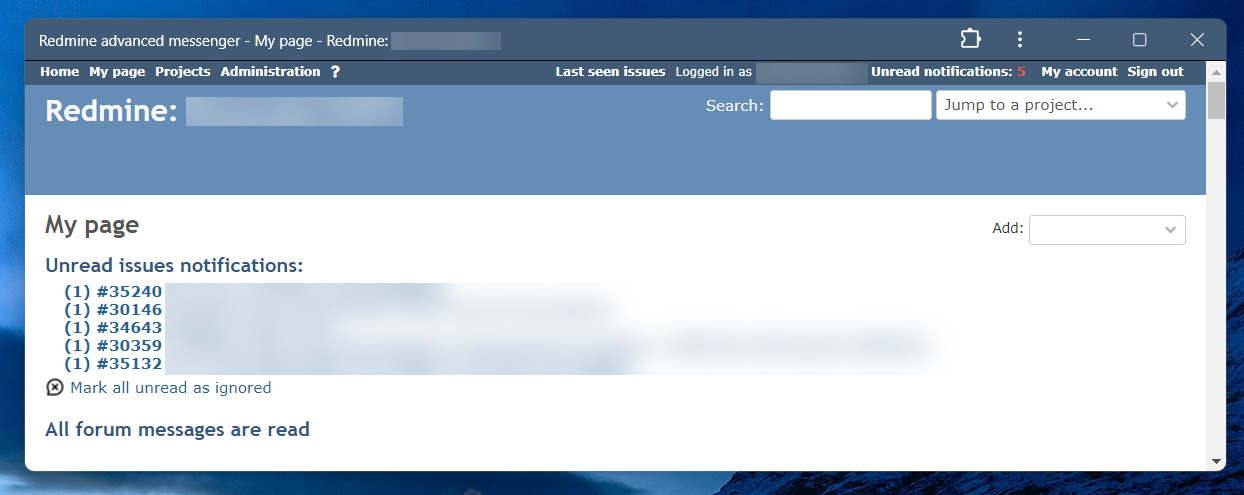
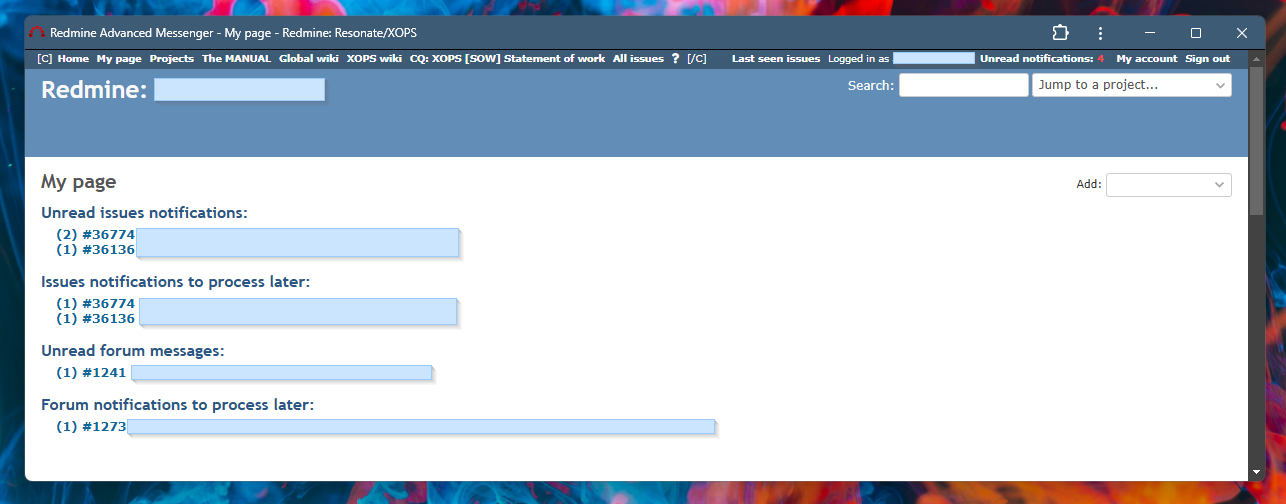
#36136-refreshing-pwa-for-notifications-with-read-briefly-and-update-… (#49)
* #36136-refreshing-pwa-for-notifications-with-read-briefly-and-update-featurebook

* #36136-add-in-changelog

* #36136-small-fix

* #36136-small-modif

---------

diff --git a/assets/javascripts/redmine_advanced_messenger.js b/assets/javascripts/redmine_advanced_messenger.js
@@ -1,6 +1,7 @@
 const PWA_START_URL = "/my/page";
 const PWA_BADGE_VALUE = "PWA_BADGE_VALUE";
 const PWA_DISPLAYED_NOTIFICATIONS = "PWA_DISPLAYED_NOTIFICATIONS";
+const PWA_READ_BRIEFLY_NOTIFICATIONS_COUNT = "PWA_READ_BRIEFLY_NOTIFICATIONS_COUNT";
 const PWA_RELATIVE_PATH = "/plugin_assets/redmine_advanced_messenger/pwa/service-worker.js";
 
 // register service worker
@@ -102,7 +103,7 @@ function checkPWA() {
     return window.matchMedia('(display-mode: standalone)').matches
 }
 
-function refreshPWA(badgeValue, notifications, notificationActions) {
+function refreshPWA(badgeValue, unreadNotifications, notificationActions, readBrieflyNotificationCount) {
     if (!checkPWA()) {
         return;
     }
@@ -124,28 +125,34 @@ function refreshPWA(badgeValue, notifications, notificationActions) {
         sessionStorage.setItem(PWA_BADGE_VALUE, badgeValue);
     }
 
-    // On the first run, skip sending notifications and add all in session storage to be considered as sent
+    // On the first run, skip sending unread notifications and add all in session storage to be considered as sent
     if (!sessionStorage.getItem(PWA_DISPLAYED_NOTIFICATIONS)) {
-        sessionStorage.setItem(PWA_DISPLAYED_NOTIFICATIONS, JSON.stringify(notifications));
+        sessionStorage.setItem(PWA_DISPLAYED_NOTIFICATIONS, JSON.stringify(unreadNotifications));
     } else {
         let delay = 0;
         const displayedNotifications = JSON.parse(sessionStorage.getItem(PWA_DISPLAYED_NOTIFICATIONS) || '[]');
-        // Set current notifications received in session storage so they won't be resent at the next refresh
-        sessionStorage.setItem(PWA_DISPLAYED_NOTIFICATIONS, JSON.stringify(notifications));
-        notifications.forEach(function (notification) {
-            // choose notifications which are not included in session storage
+        // Set current unread notifications received in session storage so they won't be resent at the next refresh
+        sessionStorage.setItem(PWA_DISPLAYED_NOTIFICATIONS, JSON.stringify(unreadNotifications));
+        unreadNotifications.forEach(function (notification) {
+            // choose unread notifications which are not included in session storage
             if (!displayedNotifications.find(displayedNotification => displayedNotification.notificationId == notification.notificationId)) {
                 // Increase the delay by 1 second for each subsequent notification
-                // Without this delay, notifications would be sent one after another too quickly, causing only the last one to be received
-                // e.g., if the delay is 500ms, only the odd notifications would be shown
+                // Without this delay, unread notifications would be sent one after another too quickly, causing only the last one to be received
+                // e.g., if the delay is 500ms, only the odd unread notifications would be shown
                 setTimeout(() => showNotification(notification.title, notification.message, notification, notificationActions), delay);
                 delay += 1000;
             }
         });
 
+        const readBrieflyNotificationsCountStored = sessionStorage.getItem(PWA_READ_BRIEFLY_NOTIFICATIONS_COUNT);
+        let readBrieflyNotificationsCountChanged = false;
+        if (readBrieflyNotificationsCountStored != readBrieflyNotificationCount) {
+            sessionStorage.setItem(PWA_READ_BRIEFLY_NOTIFICATIONS_COUNT, readBrieflyNotificationCount);
+            readBrieflyNotificationsCountChanged = true;
+        }
         // if badgeChanged or if at least one notification was sent the page needs refresh
-        if (badgeChanged || delay > 0) {
-            // Delay the page refresh to happen after all notifications have been shown
+        if (badgeChanged || delay > 0 || readBrieflyNotificationsCountChanged) {
+            // Delay the page refresh to happen after all unread notifications have been shown
             // Without this delay, the page refresh would interrupt the notifications from being sent
             setTimeout(() => window.location.href = PWA_START_URL, delay);
         }

diff --git a/app/controllers/advanced_messenger_controller.rb b/app/controllers/advanced_messenger_controller.rb
@@ -81,7 +81,7 @@ class AdvancedMessengerController < ApplicationController
     end
     
     # read the details and compose notifications only if we are called from PWA (needs them to compose the notifications)
-    # for the rest, use getUnreadNotificationsForCurrentUserCount()
+    # for the rest, use getNotificationsForCurrentUserCountByStatus()
     all_notifications = []
     if params[:for_pwa] == "true"
       # This can be generalized in two methods which call next SQL-s, in order to make the code easy to maintains
@@ -127,7 +127,20 @@ class AdvancedMessengerController < ApplicationController
     end
 
     respond_to do |format|
-      format.json { render json: {count: getUnreadNotificationsForCurrentUserCount(), notifications: all_notifications}, status: 200 }
+      format.json { render json: {count: getNotificationsForCurrentUserCountByStatus(AdvancedMessengerHelper::UNREAD), notifications: all_notifications}, status: 200 }
+      format.html
+    end
+  end
+
+  def read_briefly_notifications_count
+    if !User.current.logged?
+      Rails.logger.error("No logged in user")
+      render_403
+      return
+    end
+
+    respond_to do |format|
+      format.json { render json: { count: getNotificationsForCurrentUserCountByStatus(AdvancedMessengerHelper::READ_BRIEFLY) }, status: 200 }
       format.html
     end
   end

diff --git a/app/helpers/advanced_messenger_helper.rb b/app/helpers/advanced_messenger_helper.rb
@@ -101,9 +101,9 @@ module AdvancedMessengerHelper
         return grouped_notifications
     end
 
-    def getUnreadNotificationsForCurrentUserCount()
-        unread_issues_notifications_count = Journal.where("notes != '' AND notes IS NOT NULL AND read_by_users ILIKE ?", '%"' + User.current.id.to_s + "\":{\"read\":#{AdvancedMessengerHelper::UNREAD}%").count
-        unread_forum_messages_count = Message.where("read_by_users ILIKE ?", '%"' + User.current.id.to_s + "\":{\"read\":#{AdvancedMessengerHelper::UNREAD}%").count
+    def getNotificationsForCurrentUserCountByStatus(status)
+        unread_issues_notifications_count = Journal.where("notes != '' AND notes IS NOT NULL AND read_by_users ILIKE ?", '%"' + User.current.id.to_s + "\":{\"read\":#{status}%").count
+        unread_forum_messages_count = Message.where("read_by_users ILIKE ?", '%"' + User.current.id.to_s + "\":{\"read\":#{status}%").count
         return unread_forum_messages_count + unread_issues_notifications_count;
     end
 

diff --git a/config/routes.rb b/config/routes.rb
@@ -4,6 +4,7 @@
 post 'advanced_messenger/:id/:read_by_users/update_journal_read_by_users', :to => 'advanced_messenger#update_journal_read_by_users'
 post 'advanced_messenger/:id/:read_by_users/update_message_read_by_users', :to => 'advanced_messenger#update_message_read_by_users'
 get 'advanced_messenger/unread_notifications_count', :to => 'advanced_messenger#unread_notifications_count'
+get 'advanced_messenger/read_briefly_notifications_count', :to => 'advanced_messenger#read_briefly_notifications_count'
 post 'advanced_messenger/ignore_all_unread_issues_notes', :to => 'advanced_messenger#ignore_all_unread_issues_notes'
 post 'advanced_messenger/:issue_id/ignore_all_unread_issues_notes', :to => 'advanced_messenger#ignore_all_unread_issues_notes_for_an_issue'
 post 'advanced_messenger/ignore_all_unread_forum_messages', :to => 'advanced_messenger#ignore_all_unread_forum_messages'

diff --git a/featurebook/03 - Statuses.md b/featurebook/03 - Statuses.md
@@ -5,7 +5,7 @@ Go to [Featurebook > Index](../FEATUREBOOK.md)
 `@Scenario:`
 ## WHEN click on the "Status" dropdown, THEN the dropdown shows the possible values (colored)
 
-![stauses](img/stauses.png)   
+![stauses](img/statuses.png)   
 
 At any time, any status can be chosen. E.g. going back from "Read" to "Unread" is possible. 
 
@@ -14,7 +14,7 @@ Actually this might be a technique for reminding:
 * I switch back to "Unread"; 
 * later I will see it and elaborate a longer and precise answer.
 
-The first 2 statuses ("Read", "Unread") were illustrated in the first `.md` file. Further we'll focus on the next statuses.
+The "Read" and "Unread" statuses were illustrated in the first `.md` file. Further we'll focus on the next statuses.
 
 `@Scenario`
 ## WHEN the status "Read but collapsed" is selected, THEN ...
@@ -49,3 +49,15 @@ This is a tool to decrement the "unread messages", w/o "lying" about having read
 The **read/unread** status should be **reliable**. Both for the reader (so that he/she knows what notifications he/she still needs to read), and for the writer (so that he/she knows who read the messages).
 
 As a reader, if I **won't read a message**, then I should mark it as `Ignored`. This helps to keep the reliability of the read/unread status. It doesn't matter why I want to explicitly ignore a message. E.g. someone else added me as watcher, so the topic doesn't interest me; or I come after a long absence and I want to "start fresh"; or etc.
+
+`@Scenario`
+## WHEN the status "Read briefly; to process fully later" is selected, THEN ...
+
+* ... the color (border and dropdown) is orange,
+* AND the note is expanded.
+
+![statusIgnored](img/statusReadBriefly.png)
+
+### Some words about the use case behind "Read briefly; to process fully later"
+
+This tool helps you mark notes or messages you've briefly read so you can revisit and fully process them later. All the notes/messages marked with this status will appear on **My page**, grouped by two categories ("issues" or "forums")

diff --git a/featurebook/04 - My page and related.md b/featurebook/04 - My page and related.md
@@ -18,9 +18,9 @@ Customizations are possible:
 ![plugin options for number of messages](img/messagesInHeaderUpdateInterval.png)
 
 `@Scenario:`
-## WHEN "My page" renders, THEN it lists the unread notes and forum posts
+## WHEN "My page" renders, THEN it lists the unread/ read briefly notes and forum posts
 
-* ... in format: number of unread notes for an issue + issue title,
+* ... in format: number of unread/ read briefly notes for an issue + issue title,
 * AND the list entries are links pointing to the first unread note/message from the corresponding issue/forum post,
 * AND they are sorted so: most recent note on top.
 

diff --git a/CHANGELOG.md b/CHANGELOG.md
@@ -1,3 +1,6 @@
+## Not released yet
+* [Refreshing PWA when new status: Read briefly; to process fully later is changed](https://github.com/famiprog/redmine_advanced_messenger/pull/49)
+
 ## 1.3.5
 * [New status: Read briefly; to process fully later](https://github.com/famiprog/redmine_advanced_messenger/pull/48)
 
